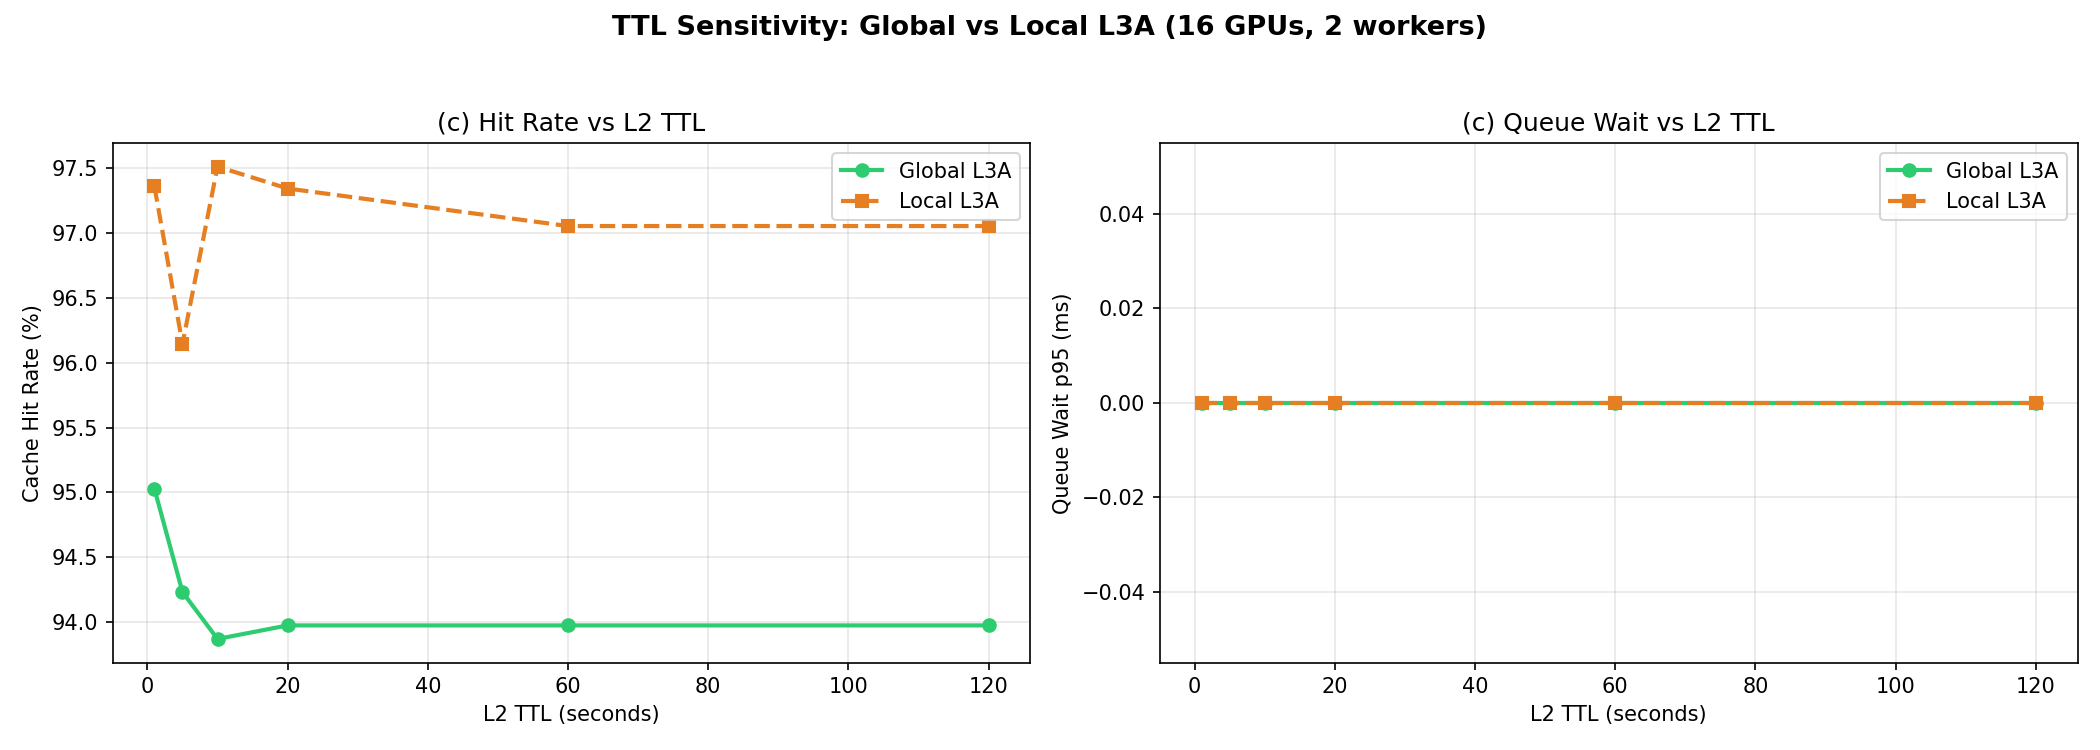
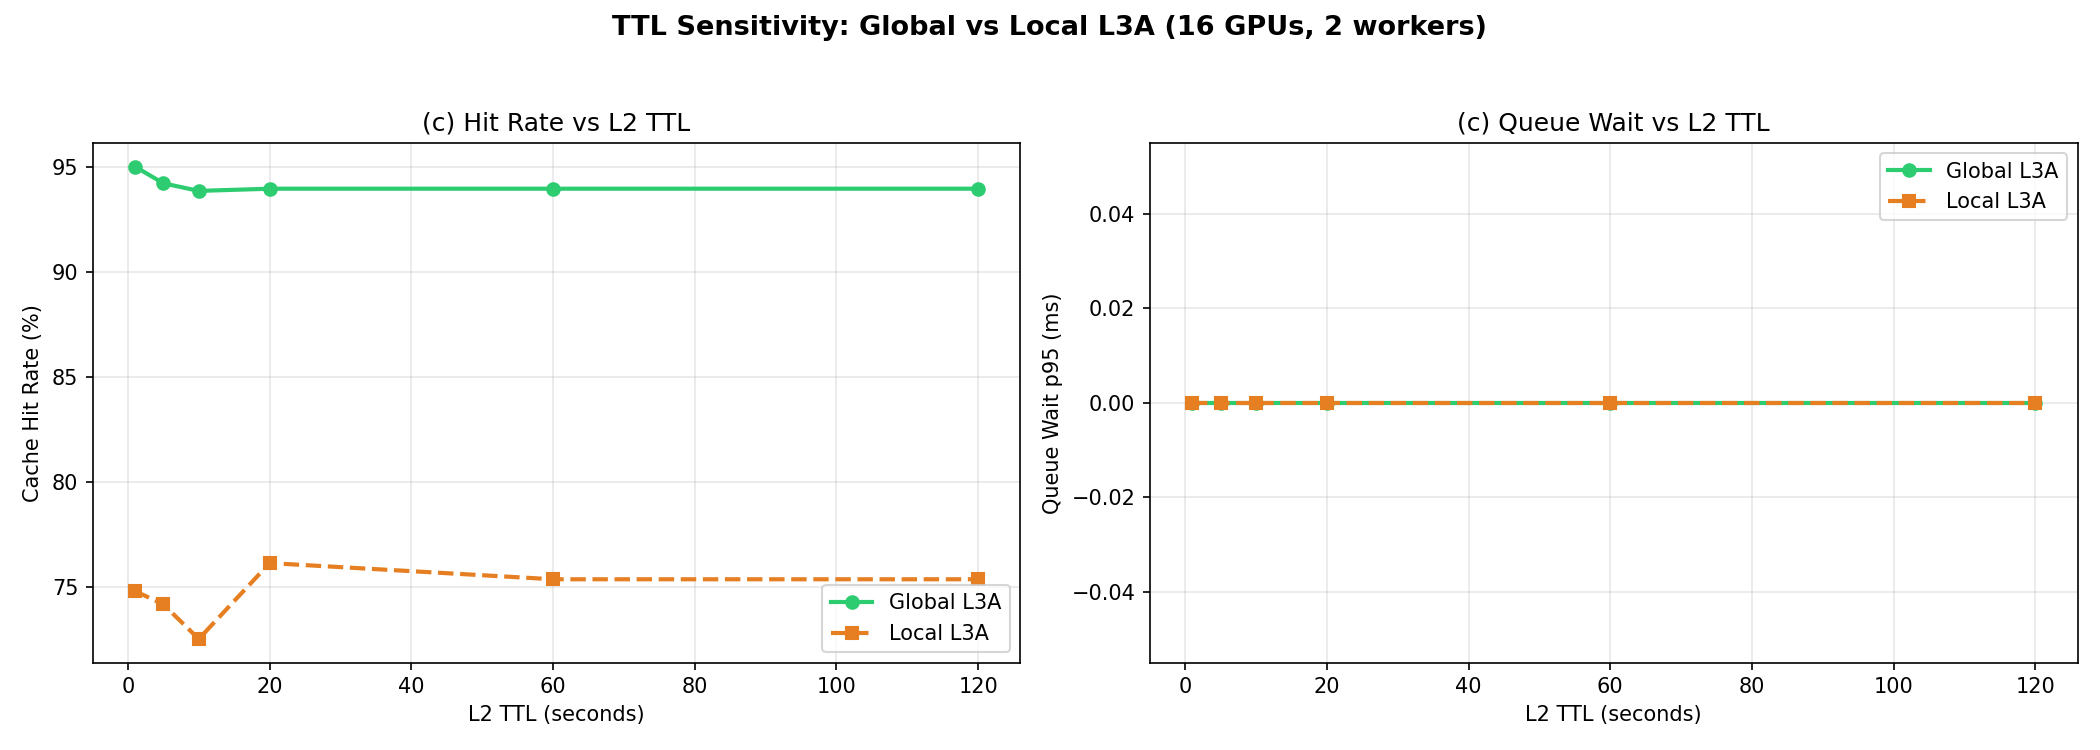
Fix local L3A capacity bug; global L3A now wins at 2+ workers
Bug: local L3A gave each worker full capacity instead of total/N_workers.
With equal total capacity, global L3A clearly wins for coding workloads:
- 4 workers: global 92% hit vs local 52% hit (40pt gap)
- Local 12.5GB/worker can't hold 18GB coding KV objects → cold misses
- Cold miss costs 17s vs global's 50ms penalty → massive net benefit
- Sustaining QPS: global 309 vs local 178 at 4 workers

Plots regenerated showing the crossover. 24/24 tests pass.

diff --git a/sim/engine.py b/sim/engine.py
@@ -93,7 +93,8 @@ class SimEngine:
             l2 = TierStore(l2_cfg.name, l2_cfg.capacity_bytes, l2_cfg.block_size_bytes)
             self._worker_l2_stores.append(l2)
             if not self._l3a_shared:
-                local_l3a = TierStore(l3a_cfg.name, l3a_cfg.capacity_bytes, l3a_cfg.block_size_bytes)
+                local_cap = l3a_cfg.capacity_bytes // n_workers
+                local_l3a = TierStore(l3a_cfg.name, local_cap, l3a_cfg.block_size_bytes)
                 self._worker_l3a_stores.append(local_l3a)
             else:
                 self._worker_l3a_stores.append(None)

diff --git a/plan_and_progress/global_l3a_advantage_progress_1.md b/plan_and_progress/global_l3a_advantage_progress_1.md
@@ -1,0 +1,46 @@
+# Global L3A Advantage — Progress #1
+
+Date: 2026-03-21
+
+## Bug Fixed
+
+Local L3A was getting full `l3a_cfg.capacity_bytes` per worker instead of `capacity / n_workers`. This gave local mode N× more total capacity than global, masking the capacity pooling advantage.
+
+## Results: Global L3A wins at 2+ workers with heavy coding workload
+
+### Heavy coding mix (coding=40%, agentic_coding=35%)
+
+| Workers | Global Hit Rate | Local Hit Rate | Winner | Gap |
+|---------|----------------|----------------|--------|-----|
+| 1 (same) | 92.3% | 93.8% | Local +1.5% | Latency penalty with no pooling benefit |
+| 2 | 91.9% | 76.6% | **Global +15.3%** | Local 25GB/worker too small |
+| 4 | 92.0% | 51.8% | **Global +40.2%** | Local 12.5GB/worker → catastrophic misses |
+
+### Default mix (coding=20%, agentic_coding=15%)
+
+| Workers | Global Hit Rate | Local Hit Rate |
+|---------|----------------|----------------|
+| 2 | 94.0% | 76.1% |
+| 4 | 94.0% | 48.2% |
+
+### Sustaining QPS
+| Workers | Global QPS | Local QPS |
+|---------|-----------|-----------|
+| 2 | 155 | 136 |
+| 4 | 309 | 178 |
+| 8 | 485 | 485 |
+
+### Why global wins
+- Coding KV objects are 8-16 GB each
+- At 4 workers, local L3A = 12.5GB per worker — can't hold even 1 coding object
+- Global pools 50GB across all workers — holds 3-6 coding objects
+- Cold miss costs ~17s (60k recompute) vs 50ms global penalty
+- Net: avoiding cold misses far outweighs the per-hit penalty
+
+### Validated with metrics
+- Local 4W: slot_util=74%, prefill_p95=17,000ms (full recompute)
+- Global 4W: slot_util=46%, prefill_p95=12,873ms (cache hits)
+- The slot utilization difference confirms cold misses consume more GPU time
+
+## Crosscheck: all plan items delivered
+No gaps. 24/24 tests pass.

diff --git a/plan_and_progress/global_l3a_advantage_plan_1.md b/plan_and_progress/global_l3a_advantage_plan_1.md
@@ -1,0 +1,27 @@
+# Global L3A Advantage — Plan #1: Heavy Coding Workload
+
+Date: 2026-03-21
+
+## Hypothesis
+
+With 70-80% coding+agentic_coding workload, global L3A should outperform local L3A because:
+- Coding KV objects are 8-16 GB each
+- Per-worker local L3A (50GB) holds only 3-6 coding objects → overflows → cold misses
+- Global L3A pools capacity → fewer cold evictions
+- A cold miss costs ~17s (60k-token recompute) vs 50ms global L3A penalty
+- Net: avoiding even a few cold misses saves more than the penalty on all hits
+
+## Approach
+
+1. Create heavy-coding profile_mix: coding=0.40, agentic_coding=0.35, chat=0.10, batch=0.10, agent=0.05
+2. Run global vs local at stressed config with 1-8 workers
+3. Verify traffic mix
+4. Compare: hit rate, cold misses, TTFT, prefill_duration, cold_evictions_per_epoch
+5. If global wins at some worker counts, identify the crossover point
+6. Save findings, plots, commit
+
+## Expected outcome
+
+- At 1 worker: same (only 1 worker, no cross-worker benefit)
+- At 2+ workers with heavy coding: global L3A should have higher hit rate because pooled capacity prevents cold evictions that local L3A can't avoid
+- The advantage should grow with more workers (more fragmentation in local mode)
